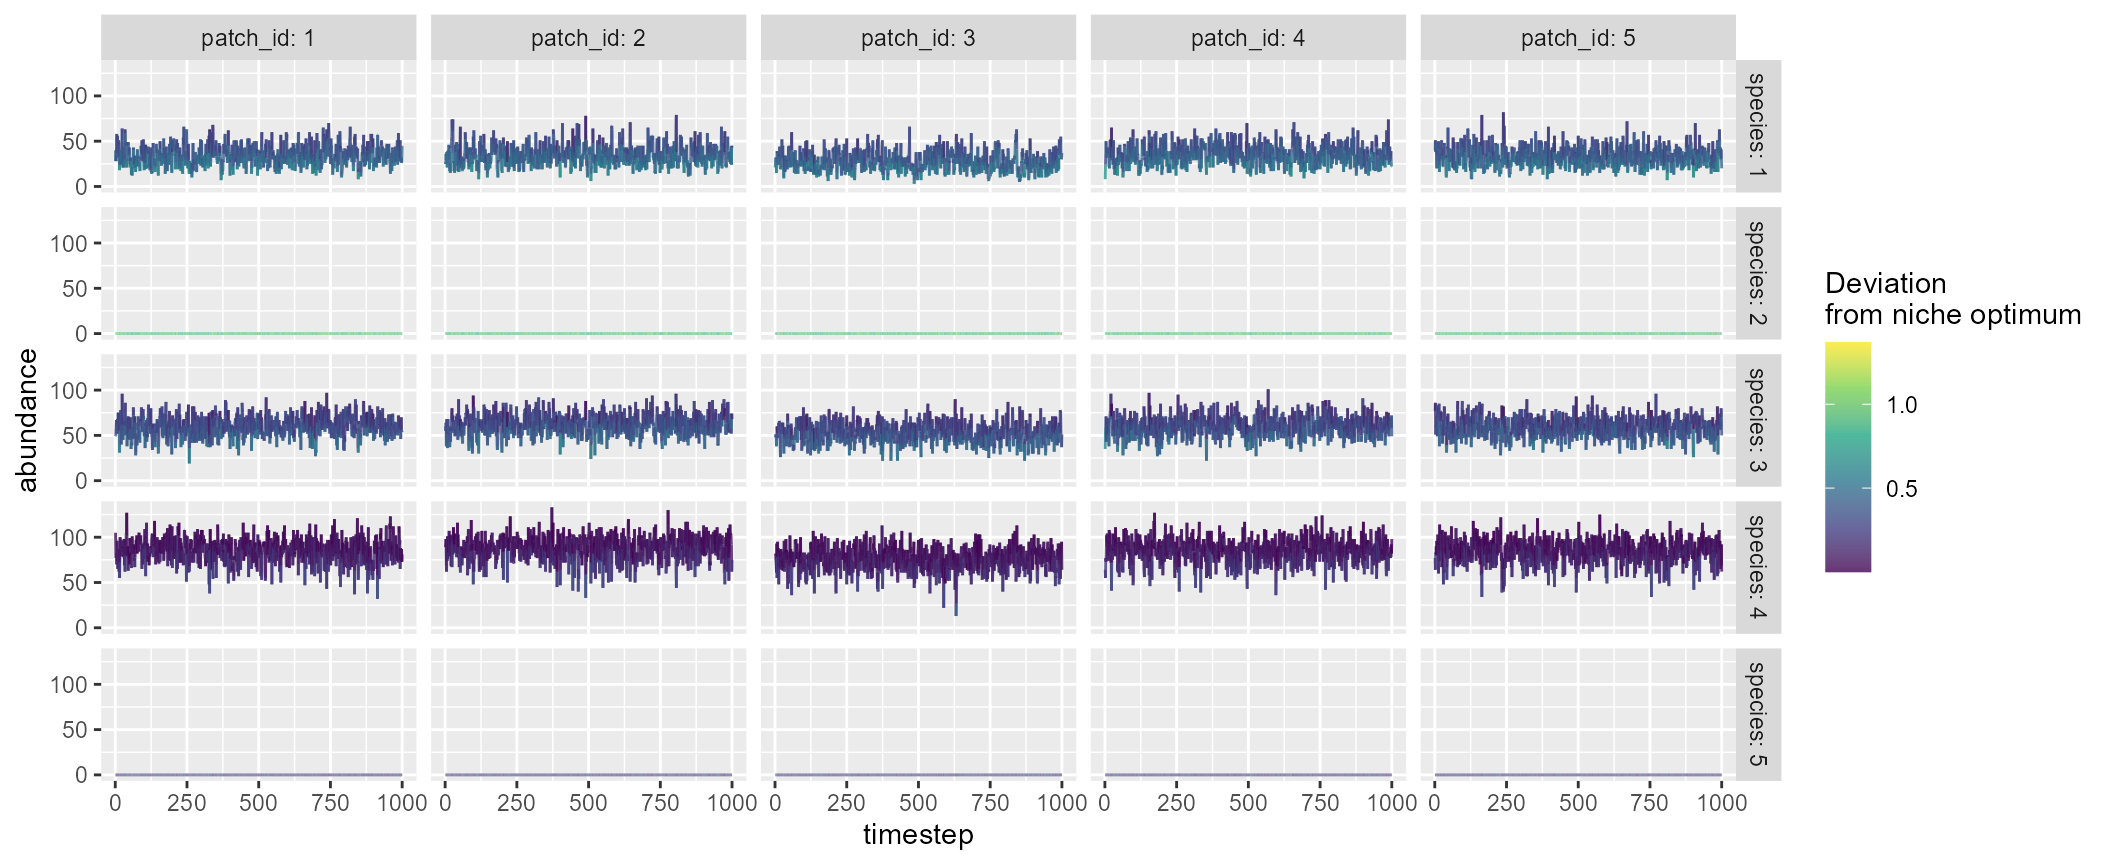
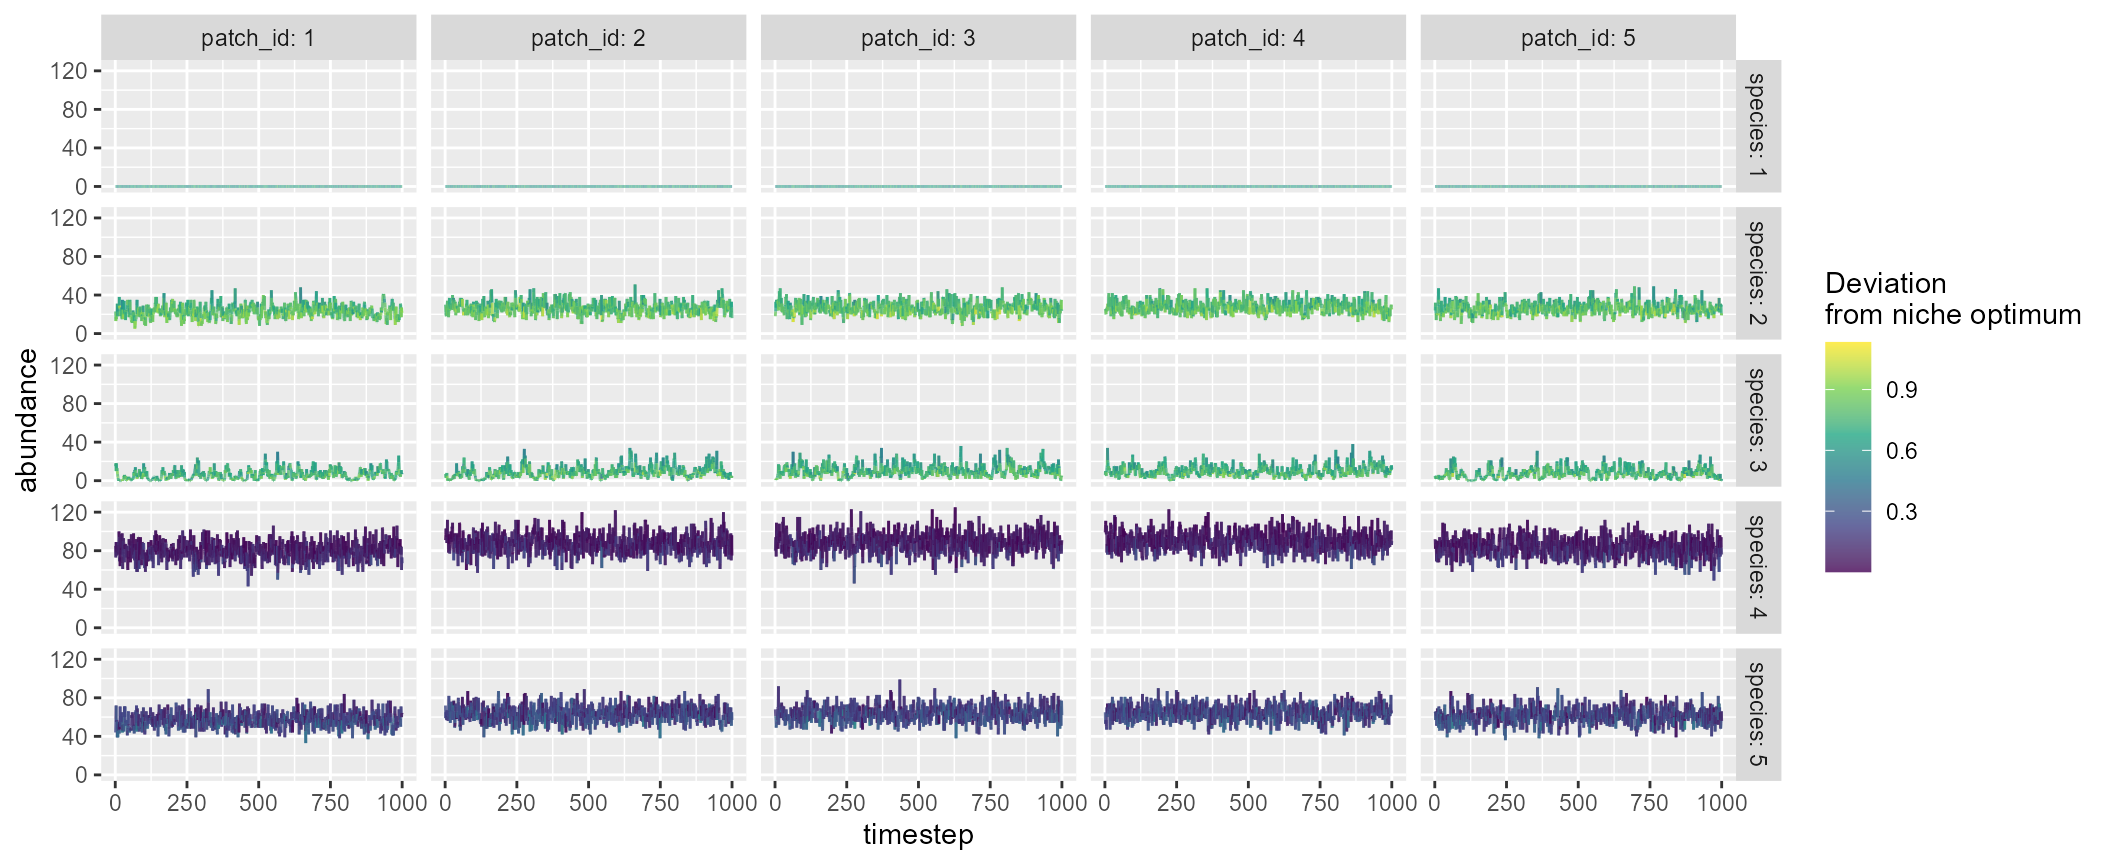
edit: pkgdown template

diff --git a/docs/articles/mcsim.html b/docs/articles/mcsim.html
@@ -216,16 +216,16 @@ species that are randomly chosen:</p>
 <span><span class="co">#&gt; <span style="color: #949494;"># A tibble: 25,000 × 9</span></span></span>
 <span><span class="co">#&gt;    timestep patch_id mean_env    env carrying_capacity species niche_optim</span></span>
 <span><span class="co">#&gt;       <span style="color: #949494; font-style: italic;">&lt;dbl&gt;</span>    <span style="color: #949494; font-style: italic;">&lt;dbl&gt;</span>    <span style="color: #949494; font-style: italic;">&lt;dbl&gt;</span>  <span style="color: #949494; font-style: italic;">&lt;dbl&gt;</span>             <span style="color: #949494; font-style: italic;">&lt;dbl&gt;</span>   <span style="color: #949494; font-style: italic;">&lt;dbl&gt;</span>       <span style="color: #949494; font-style: italic;">&lt;dbl&gt;</span></span></span>
-<span><span class="co">#&gt; <span style="color: #BCBCBC;"> 1</span>        1        1        0 0.086<span style="text-decoration: underline;">9</span>               100       1     -<span style="color: #BB0000;">0.425</span> </span></span>
-<span><span class="co">#&gt; <span style="color: #BCBCBC;"> 2</span>        1        1        0 0.086<span style="text-decoration: underline;">9</span>               100       2      0.928 </span></span>
-<span><span class="co">#&gt; <span style="color: #BCBCBC;"> 3</span>        1        1        0 0.086<span style="text-decoration: underline;">9</span>               100       3     -<span style="color: #BB0000;">0.319</span> </span></span>
-<span><span class="co">#&gt; <span style="color: #BCBCBC;"> 4</span>        1        1        0 0.086<span style="text-decoration: underline;">9</span>               100       4      0.045<span style="text-decoration: underline;">9</span></span></span>
-<span><span class="co">#&gt; <span style="color: #BCBCBC;"> 5</span>        1        1        0 0.086<span style="text-decoration: underline;">9</span>               100       5     -<span style="color: #BB0000;">0.246</span> </span></span>
-<span><span class="co">#&gt; <span style="color: #BCBCBC;"> 6</span>        1        2        0 0.118                100       1     -<span style="color: #BB0000;">0.425</span> </span></span>
-<span><span class="co">#&gt; <span style="color: #BCBCBC;"> 7</span>        1        2        0 0.118                100       2      0.928 </span></span>
-<span><span class="co">#&gt; <span style="color: #BCBCBC;"> 8</span>        1        2        0 0.118                100       3     -<span style="color: #BB0000;">0.319</span> </span></span>
-<span><span class="co">#&gt; <span style="color: #BCBCBC;"> 9</span>        1        2        0 0.118                100       4      0.045<span style="text-decoration: underline;">9</span></span></span>
-<span><span class="co">#&gt; <span style="color: #BCBCBC;">10</span>        1        2        0 0.118                100       5     -<span style="color: #BB0000;">0.246</span> </span></span>
+<span><span class="co">#&gt; <span style="color: #BCBCBC;"> 1</span>        1        1        0 0.014<span style="text-decoration: underline;">8</span>               100       1      0.616 </span></span>
+<span><span class="co">#&gt; <span style="color: #BCBCBC;"> 2</span>        1        1        0 0.014<span style="text-decoration: underline;">8</span>               100       2      0.791 </span></span>
+<span><span class="co">#&gt; <span style="color: #BCBCBC;"> 3</span>        1        1        0 0.014<span style="text-decoration: underline;">8</span>               100       3     -<span style="color: #BB0000;">0.736</span> </span></span>
+<span><span class="co">#&gt; <span style="color: #BCBCBC;"> 4</span>        1        1        0 0.014<span style="text-decoration: underline;">8</span>               100       4      0.038<span style="text-decoration: underline;">8</span></span></span>
+<span><span class="co">#&gt; <span style="color: #BCBCBC;"> 5</span>        1        1        0 0.014<span style="text-decoration: underline;">8</span>               100       5     -<span style="color: #BB0000;">0.220</span> </span></span>
+<span><span class="co">#&gt; <span style="color: #BCBCBC;"> 6</span>        1        2        0 0.034<span style="text-decoration: underline;">8</span>               100       1      0.616 </span></span>
+<span><span class="co">#&gt; <span style="color: #BCBCBC;"> 7</span>        1        2        0 0.034<span style="text-decoration: underline;">8</span>               100       2      0.791 </span></span>
+<span><span class="co">#&gt; <span style="color: #BCBCBC;"> 8</span>        1        2        0 0.034<span style="text-decoration: underline;">8</span>               100       3     -<span style="color: #BB0000;">0.736</span> </span></span>
+<span><span class="co">#&gt; <span style="color: #BCBCBC;"> 9</span>        1        2        0 0.034<span style="text-decoration: underline;">8</span>               100       4      0.038<span style="text-decoration: underline;">8</span></span></span>
+<span><span class="co">#&gt; <span style="color: #BCBCBC;">10</span>        1        2        0 0.034<span style="text-decoration: underline;">8</span>               100       5     -<span style="color: #BB0000;">0.220</span> </span></span>
 <span><span class="co">#&gt; <span style="color: #949494;"># ℹ 24,990 more rows</span></span></span>
 <span><span class="co">#&gt; <span style="color: #949494;"># ℹ 2 more variables: r_xt &lt;dbl&gt;, abundance &lt;dbl&gt;</span></span></span>
 <span><span class="co">#&gt; </span></span>
@@ -233,45 +233,45 @@ species that are randomly chosen:</p>
 <span><span class="co">#&gt; <span style="color: #949494;"># A tibble: 5 × 6</span></span></span>
 <span><span class="co">#&gt;   species mean_abundance    r0 niche_optim sd_niche_width p_dispersal</span></span>
 <span><span class="co">#&gt;     <span style="color: #949494; font-style: italic;">&lt;dbl&gt;</span>          <span style="color: #949494; font-style: italic;">&lt;dbl&gt;</span> <span style="color: #949494; font-style: italic;">&lt;dbl&gt;</span>       <span style="color: #949494; font-style: italic;">&lt;dbl&gt;</span>          <span style="color: #949494; font-style: italic;">&lt;dbl&gt;</span>       <span style="color: #949494; font-style: italic;">&lt;dbl&gt;</span></span></span>
-<span><span class="co">#&gt; <span style="color: #BCBCBC;">1</span>       1           32.5     4     -<span style="color: #BB0000;">0.425</span>           0.387         0.1</span></span>
-<span><span class="co">#&gt; <span style="color: #BCBCBC;">2</span>       2            0       4      0.928           0.220         0.1</span></span>
-<span><span class="co">#&gt; <span style="color: #BCBCBC;">3</span>       3           58.4     4     -<span style="color: #BB0000;">0.319</span>           0.457         0.1</span></span>
-<span><span class="co">#&gt; <span style="color: #BCBCBC;">4</span>       4           83.5     4      0.045<span style="text-decoration: underline;">9</span>          0.239         0.1</span></span>
-<span><span class="co">#&gt; <span style="color: #BCBCBC;">5</span>       5            0       4     -<span style="color: #BB0000;">0.246</span>           0.116         0.1</span></span>
+<span><span class="co">#&gt; <span style="color: #BCBCBC;">1</span>       1           0        4      0.616           0.168         0.1</span></span>
+<span><span class="co">#&gt; <span style="color: #BCBCBC;">2</span>       2          25.8      4      0.791           0.854         0.1</span></span>
+<span><span class="co">#&gt; <span style="color: #BCBCBC;">3</span>       3           8.40     4     -<span style="color: #BB0000;">0.736</span>           0.529         0.1</span></span>
+<span><span class="co">#&gt; <span style="color: #BCBCBC;">4</span>       4          85.6      4      0.038<span style="text-decoration: underline;">8</span>          0.379         0.1</span></span>
+<span><span class="co">#&gt; <span style="color: #BCBCBC;">5</span>       5          62.0      4     -<span style="color: #BB0000;">0.220</span>           0.747         0.1</span></span>
 <span><span class="co">#&gt; </span></span>
 <span><span class="co">#&gt; $df_patch</span></span>
 <span><span class="co">#&gt; <span style="color: #949494;"># A tibble: 5 × 5</span></span></span>
 <span><span class="co">#&gt;   patch_id alpha_div mean_env carrying_capacity disturbance</span></span>
 <span><span class="co">#&gt;      <span style="color: #949494; font-style: italic;">&lt;dbl&gt;</span>     <span style="color: #949494; font-style: italic;">&lt;dbl&gt;</span>    <span style="color: #949494; font-style: italic;">&lt;dbl&gt;</span>             <span style="color: #949494; font-style: italic;">&lt;dbl&gt;</span>       <span style="color: #949494; font-style: italic;">&lt;dbl&gt;</span></span></span>
-<span><span class="co">#&gt; <span style="color: #BCBCBC;">1</span>        1         3        0               100           0</span></span>
-<span><span class="co">#&gt; <span style="color: #BCBCBC;">2</span>        2         3        0               100           0</span></span>
-<span><span class="co">#&gt; <span style="color: #BCBCBC;">3</span>        3         3        0               100           0</span></span>
-<span><span class="co">#&gt; <span style="color: #BCBCBC;">4</span>        4         3        0               100           0</span></span>
-<span><span class="co">#&gt; <span style="color: #BCBCBC;">5</span>        5         3        0               100           0</span></span>
+<span><span class="co">#&gt; <span style="color: #BCBCBC;">1</span>        1      3.88        0               100           0</span></span>
+<span><span class="co">#&gt; <span style="color: #BCBCBC;">2</span>        2      3.96        0               100           0</span></span>
+<span><span class="co">#&gt; <span style="color: #BCBCBC;">3</span>        3      3.98        0               100           0</span></span>
+<span><span class="co">#&gt; <span style="color: #BCBCBC;">4</span>        4      3.99        0               100           0</span></span>
+<span><span class="co">#&gt; <span style="color: #BCBCBC;">5</span>        5      3.94        0               100           0</span></span>
 <span><span class="co">#&gt; </span></span>
 <span><span class="co">#&gt; $df_diversity</span></span>
 <span><span class="co">#&gt; <span style="color: #949494;"># A tibble: 1 × 3</span></span></span>
 <span><span class="co">#&gt;   alpha_div beta_div gamma_div</span></span>
 <span><span class="co">#&gt;       <span style="color: #949494; font-style: italic;">&lt;dbl&gt;</span>    <span style="color: #949494; font-style: italic;">&lt;dbl&gt;</span>     <span style="color: #949494; font-style: italic;">&lt;dbl&gt;</span></span></span>
-<span><span class="co">#&gt; <span style="color: #BCBCBC;">1</span>         3        1         3</span></span>
+<span><span class="co">#&gt; <span style="color: #BCBCBC;">1</span>      3.95     1.01         4</span></span>
 <span><span class="co">#&gt; </span></span>
 <span><span class="co">#&gt; $df_xy_coord</span></span>
 <span><span class="co">#&gt; <span style="color: #949494;"># A tibble: 5 × 2</span></span></span>
 <span><span class="co">#&gt;   x_coord y_coord</span></span>
 <span><span class="co">#&gt;     <span style="color: #949494; font-style: italic;">&lt;dbl&gt;</span>   <span style="color: #949494; font-style: italic;">&lt;dbl&gt;</span></span></span>
-<span><span class="co">#&gt; <span style="color: #BCBCBC;">1</span>   8.13     9.35</span></span>
-<span><span class="co">#&gt; <span style="color: #BCBCBC;">2</span>   3.98     7.57</span></span>
-<span><span class="co">#&gt; <span style="color: #BCBCBC;">3</span>   0.314    9.26</span></span>
-<span><span class="co">#&gt; <span style="color: #BCBCBC;">4</span>   5.24     4.94</span></span>
-<span><span class="co">#&gt; <span style="color: #BCBCBC;">5</span>   9.42     6.72</span></span>
+<span><span class="co">#&gt; <span style="color: #BCBCBC;">1</span>    7.17    5.28</span></span>
+<span><span class="co">#&gt; <span style="color: #BCBCBC;">2</span>    5.29    4.08</span></span>
+<span><span class="co">#&gt; <span style="color: #BCBCBC;">3</span>    1.80    4.29</span></span>
+<span><span class="co">#&gt; <span style="color: #BCBCBC;">4</span>    2.25    3.20</span></span>
+<span><span class="co">#&gt; <span style="color: #BCBCBC;">5</span>    5.32    2.35</span></span>
 <span><span class="co">#&gt; </span></span>
 <span><span class="co">#&gt; $distance_matrix</span></span>
 <span><span class="co">#&gt;          1        2        3        4        5</span></span>
-<span><span class="co">#&gt; 1 0.000000 4.517923 7.815547 5.275528 2.937167</span></span>
-<span><span class="co">#&gt; 2 4.517923 0.000000 4.034969 2.917998 5.510640</span></span>
-<span><span class="co">#&gt; 3 7.815547 4.034969 0.000000 6.552704 9.456638</span></span>
-<span><span class="co">#&gt; 4 5.275528 2.917998 6.552704 0.000000 4.543792</span></span>
-<span><span class="co">#&gt; 5 2.937167 5.510640 9.456638 4.543792 0.000000</span></span>
+<span><span class="co">#&gt; 1 0.000000 2.228387 5.458352 5.341854 3.467899</span></span>
+<span><span class="co">#&gt; 2 2.228387 0.000000 3.494407 3.165794 1.734974</span></span>
+<span><span class="co">#&gt; 3 5.458352 3.494407 0.000000 1.182671 4.016241</span></span>
+<span><span class="co">#&gt; 4 5.341854 3.165794 1.182671 0.000000 3.181396</span></span>
+<span><span class="co">#&gt; 5 3.467899 1.734974 4.016241 3.181396 0.000000</span></span>
 <span><span class="co">#&gt; </span></span>
 <span><span class="co">#&gt; $interaction_matrix</span></span>
 <span><span class="co">#&gt;      [,1] [,2] [,3] [,4] [,5]</span></span>

diff --git a/docs/reference/index.html b/docs/reference/index.html
@@ -69,9 +69,9 @@
     </div>
 
     <div class="section level2">
-      <h2 id="all-functions">All functions<a class="anchor" aria-label="anchor" href="#all-functions"></a></h2>
+      <h2 id="network-generation">Network generation<a class="anchor" aria-label="anchor" href="#network-generation"></a></h2>
       
-      
+      <p class="section-desc"></p><p>Functions for spatial networks</p>
 
       
     </div><div id="" class="section level2">
@@ -81,29 +81,55 @@
 
       <dl><dt>
           
-          <code><a href="adjtodist.html">adjtodist()</a></code> 
-        </dt>
-        <dd>Convert an adjacency matrix to a distance matrix</dd>
-      </dl><dl><dt>
-          
           <code><a href="brnet.html">brnet()</a></code> 
         </dt>
         <dd>Generate a random branching network</dd>
       </dl><dl><dt>
           
-          <code><a href="extra_prey.html">extra_prey()</a></code> 
+          <code><a href="adjtodist.html">adjtodist()</a></code> 
         </dt>
-        <dd>Extra prey function</dd>
+        <dd>Convert an adjacency matrix to a distance matrix</dd>
       </dl><dl><dt>
           
-          <code><a href="findr.html">findr()</a></code> 
+          <code><a href="ptsource.html">ptsource()</a></code> 
         </dt>
-        <dd>Find suitable intrinsic growth rates</dd>
+        <dd>Create point source disturbance</dd>
       </dl><dl><dt>
           
-          <code><a href="foodchain.html">foodchain()</a></code> 
+          <code><a href="frgm.html">frgm()</a></code> 
         </dt>
-        <dd>Spatiotemporal average of maximum trophic positions using <code>sglv</code> output</dd>
+        <dd>Dispersal probability matrix after accounting for network fragmentation</dd>
+      </dl><dl><dt>
+          
+          <code><a href="ggbrnet.html">ggbrnet()</a></code> 
+        </dt>
+        <dd>Visualize a branching network</dd>
+      </dl></div><div class="section level2">
+      <h2 id="simulation">Simulation<a class="anchor" aria-label="anchor" href="#simulation"></a></h2>
+      
+      <p class="section-desc"></p><p>Functions for metacommunity/food web simulations</p>
+
+      
+    </div><div id="" class="section level2">
+      
+      
+      
+
+      <dl><dt>
+          
+          <code><a href="mcsim.html">mcsim()</a></code> 
+        </dt>
+        <dd>Simulate metacommunity dynamics</dd>
+      </dl><dl><dt>
+          
+          <code><a href="igpsim.html">igpsim()</a></code> 
+        </dt>
+        <dd>Simulate meta-food web dynamics with intraguild predation</dd>
+      </dl><dl><dt>
+          
+          <code><a href="sglv.html">sglv()</a></code> 
+        </dt>
+        <dd>Spatial generalized Lotka-Volterra model</dd>
       </dl><dl><dt>
           
           <code><a href="foodweb.html">foodweb()</a></code> 
@@ -111,10 +137,26 @@
         <dd>Generate a food web based on the preferential prey model</dd>
       </dl><dl><dt>
           
-          <code><a href="frgm.html">frgm()</a></code> 
+          <code><a href="foodchain.html">foodchain()</a></code> 
         </dt>
-        <dd>Dispersal probability matrix after accounting for network fragmentation</dd>
+        <dd>Spatiotemporal average of maximum trophic positions using <code>sglv</code> output</dd>
       </dl><dl><dt>
+          
+          <code><a href="findr.html">findr()</a></code> 
+        </dt>
+        <dd>Find suitable intrinsic growth rates</dd>
+      </dl></div><div class="section level2">
+      <h2 id="utils">Utils<a class="anchor" aria-label="anchor" href="#utils"></a></h2>
+      
+      <p class="section-desc"></p><p>Utility functions for internal use</p>
+
+      
+    </div><div id="" class="section level2">
+      
+      
+      
+
+      <dl><dt>
           
           <code><a href="fun_adj.html">fun_adj()</a></code> 
         </dt>
@@ -176,24 +218,14 @@
         <dd>Watershed area</dd>
       </dl><dl><dt>
           
-          <code><a href="ggbrnet.html">ggbrnet()</a></code> 
+          <code><a href="resample.html">resample()</a></code> 
         </dt>
-        <dd>Visualize a branching network</dd>
+        <dd>Resample function</dd>
       </dl><dl><dt>
           
-          <code><a href="igpsim.html">igpsim()</a></code> 
+          <code><a href="extra_prey.html">extra_prey()</a></code> 
         </dt>
-        <dd>Simulate meta-food web dynamics with intraguild predation</dd>
-      </dl><dl><dt>
-          
-          <code><a href="max_tp.html">max_tp()</a></code> 
-        </dt>
-        <dd>Maximum trophic position</dd>
-      </dl><dl><dt>
-          
-          <code><a href="mcsim.html">mcsim()</a></code> 
-        </dt>
-        <dd>Simulate metacommunity dynamics</dd>
+        <dd>Extra prey function</dd>
       </dl><dl><dt>
           
           <code><a href="ppm.html">ppm()</a></code> 
@@ -201,26 +233,17 @@
         <dd>Preferential prey model</dd>
       </dl><dl><dt>
           
-          <code><a href="ptsource.html">ptsource()</a></code> 
-        </dt>
-        <dd>Create point source disturbance</dd>
-      </dl><dl><dt>
-          
-          <code><a href="resample.html">resample()</a></code> 
-        </dt>
-        <dd>Resample function</dd>
-      </dl><dl><dt>
-          
-          <code><a href="sglv.html">sglv()</a></code> 
-        </dt>
-        <dd>Spatial generalized Lotka-Volterra model</dd>
-      </dl><dl><dt>
-          
           <code><a href="to_alpha.html">to_alpha()</a></code> 
         </dt>
         <dd>Apply conversion efficiency and attack rate</dd>
+      </dl><dl><dt>
+          
+          <code><a href="max_tp.html">max_tp()</a></code> 
+        </dt>
+        <dd>Maximum trophic position</dd>
       </dl></div>
-  </main></div>
+  </main><aside class="col-md-3"><nav id="toc"><h2>On this page</h2>
+    </nav></aside></div>
 
 
     <footer><div class="copyright">

diff --git a/NEWS.md b/NEWS.md
@@ -49,6 +49,6 @@
 
 - add disturbance arguments to `brnet()` added function `adjtodist()`
 
-# Version 1.0.0 (05/03/21)
+## Version 1.0.0 (05/03/21)
 
 - initial release
